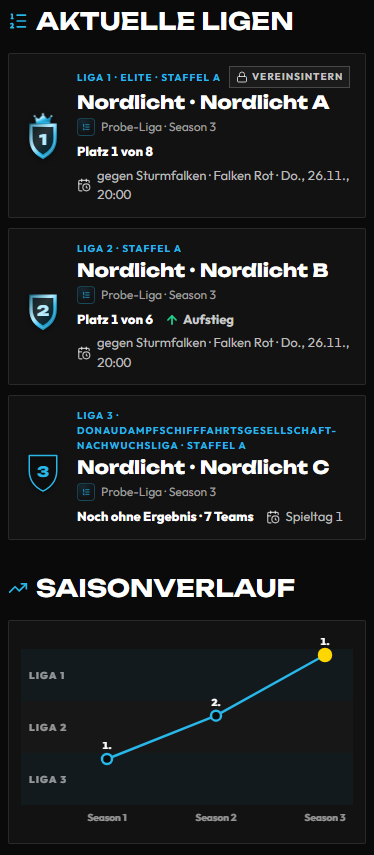
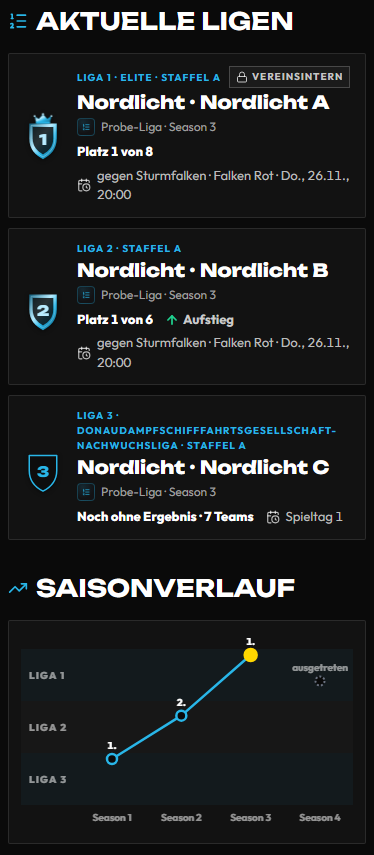
docs: Handbuch zu Rückzug im Saisonverlauf, Umbruch und Teamrechten (#1630)
- Rückzug als grauer Punkt „ausgetreten“, Season-Namen nie gekürzt
  (zweizeilig), Reihenfolge der Linien auf der Teamseite.
- Statushinweis bei verborgener Teilnehmerliste.
- Richtiggestellt: Die Teamseite eines privaten Teams öffnen das Team und
  der Staff (Teamrechte); im Profil bleibt es streng (Fabian).
- Bilder nachgezogen (Abzeichen-Stufen, Profil 390 px mit Rückzug,
  Teamseite 1440 px).

diff --git a/docs/handbuch/liga.md b/docs/handbuch/liga.md
@@ -1728,18 +1728,23 @@ Glanz läuft einmal darüber; mit „Bewegung reduzieren“ steht alles still.
 Vertreter führt, die laufende Staffel (wer ein Co-Team nur angemeldet hat, sieht es dort nicht): Liga N mit
 Abzeichen, Staffel, **Platz von N**, Zone (Auf- oder Abstieg, Relegation) und das **nächste Spiel** mit Gegner und Termin (ohne
 Termin der Spieltag). Plätze gibt es ab dem ersten gewerteten Spiel der Staffel – vorher steht „Noch ohne Ergebnis“, auf der
-Warteliste bzw. vor der Zulassung „Warteliste“ bzw. „Anmeldung offen“. Die beste Liga N
-steht oben. Sichtbar nach derselben Regel wie die Season-Historie: Gäste und Nicht-Mitglieder nur öffentliche Seasons, Mitglieder
+Warteliste bzw. vor der Zulassung „Warteliste“ bzw. „Anmeldung offen“ – verbirgt die Staffel ihre Teilnehmerliste, sehen diesen
+Stand nur die Person selbst bzw. auf der Teamseite das Team und der Staff. Ein Co-Team, das sich zurückgezogen hat, steht hier nicht. Lange
+Namen brechen um und werden nie mit „…“ gekürzt. Die beste Liga N steht oben. Sichtbar nach derselben Regel wie die Season-Historie: Gäste und Nicht-Mitglieder nur öffentliche Seasons, Mitglieder
 bei eingeschaltetem „Vereinsinterne Erfolge zeigen“ auch Seasons „Nur Mitglieder“ mit dem Etikett **Vereinsintern**, die Person
 selbst alles. Ein **privates Team** und seine Co-Teams stehen in „Aktuelle Ligen“ und in der Season-Historie nur für die Person
-selbst – wie die Teamseite, die außer dem Team niemand öffnen kann. Die Teamseite zeigt im Abschnitt *Liga* dieselben Karten für alle Co-Teams des Teams, beste Liga N oben.
+selbst; die Teamseite eines privaten Teams öffnen das Team und der Staff des Vereins (dort gelten die Rechte des Teams). Die Teamseite zeigt im Abschnitt *Liga* dieselben Karten für alle Co-Teams des Teams, beste Liga N oben.
 
-<img src="../assets/liga/profil-aktuelle-ligen-390.png" alt="Spielerprofil am Handy: Aktuelle Ligen mit drei Co-Teams in Liga 1, 2 und 3, Platz, Aufstieg und nächstem Spiel, darunter der Saisonverlauf als Linie" width="300">
+<img src="../assets/liga/profil-aktuelle-ligen-390.png" alt="Spielerprofil am Handy: Aktuelle Ligen mit drei Co-Teams in Liga 1, 2 und 3, Platz, Aufstieg und nächstem Spiel, darunter der Saisonverlauf als Linie mit einem grauen Punkt „ausgetreten“ in Season 4" width="300">
 
 **Saisonverlauf:** Ab zwei abgeschlossenen Seasons zeigen Spielerprofil und Teamseite eine Linie: je Season ein Punkt, Liga N als
 Band, der Platz am Punkt, der Meister in Gold. Ein Aufstieg hebt die Linie, auch wenn der Platz in der höheren Liga N schlechter ist.
-Auf der Teamseite hat jedes Co-Team eine eigene Linie mit Legende – höchstens vier, die besten zuerst (aktuelle Liga N, dann Platz);
-gibt es mehr, steht darunter „und N weitere Co-Teams“.
+Auf der Teamseite hat jedes Co-Team eine eigene Linie mit Legende – höchstens vier, die besten zuerst: Co-Teams, die gerade in einer
+laufenden Staffel spielen, vor den übrigen, dann nach der Liga N und dem Platz der letzten Season; gibt es mehr, steht darunter
+„und N weitere Co-Teams“. Hat sich ein Co-Team in einer Season **zurückgezogen**, steht die Season trotzdem auf der Achse: ein grauer
+Punkt „ausgetreten“ (bzw. „disqualifiziert“) ohne Platz, die Linie ist dort unterbrochen. Season-Namen werden nie gekürzt – ein
+langer Name steht in zwei Zeilen („Herbst“ / „2026/27“), die Seasons rücken so weit auseinander, wie der längste Name braucht; den
+vollen Namen zeigt auch der Hinweis beim Darüberfahren. Reicht die Breite nicht (viele Seasons, Handy), wischt man die Linie seitlich.
 
 <img src="../assets/liga/teamseite-liga-1440.png" alt="Teamseite am PC: Abschnitt Liga mit drei Co-Teams nach Liga N sortiert, darunter der Saisonverlauf mit einer Linie je Co-Team" width="720">
 
